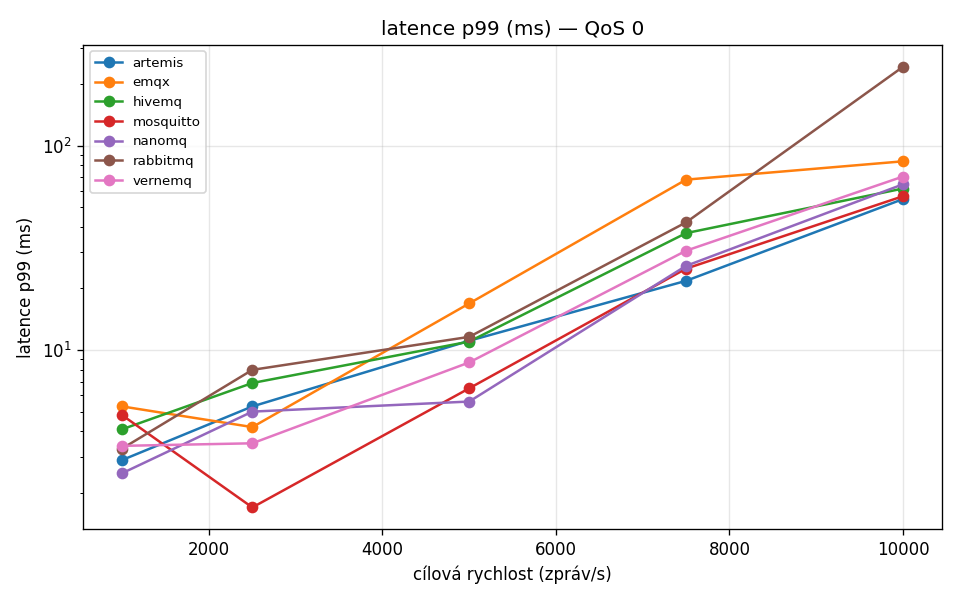
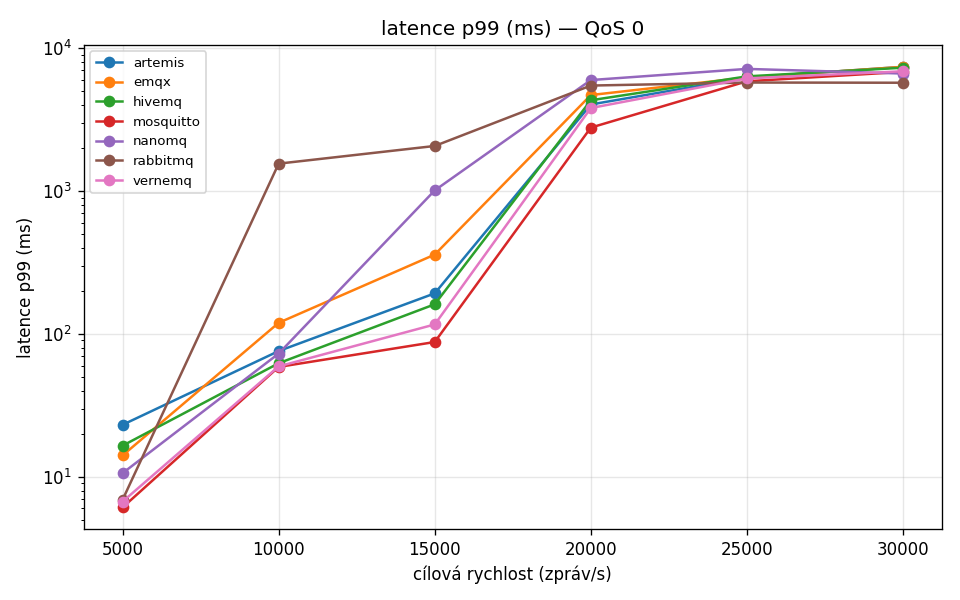
Broker benchmark: QoS 0 rampa do 30k — nalezen strop ~20k
QoS 0 změřena výš (5k-30k), aby throughput graf něco ukázal:
- všichni čistě do 15k/s, strop ~20k (z větší části klientský — jeden
  subscriber proces), nad 25k saturace a ztráty
- reálný rozdíl: RabbitMQ láme nejdřív (p99 1.5s už u 10k), Mosquitto
  drží nejdéle (25k s 5% ztrát)
- README: tabulka chování QoS0 rampy + graf throughput-qos0 (už ne čára)
- obnovené grafy v charts/

Oprava subscriberu (stop i během proudu) umožnila měřit i saturaci.

diff --git a/benchmarks/brokers/README.md b/benchmarks/brokers/README.md
@@ -171,6 +171,21 @@ RAM = working set kontejneru (memory.current − cache).
 | **RabbitMQ** | 5 000 | 0 | 11.6 | 84 | 148 |
 | **EMQX** | 5 000 | 0 | 16.9 | 132 | 254 |
 
+**QoS 0 — hledání stropu (rampa 5k → 30k):** protože při 5 000/s je propustnost
+nezajímavá (všichni stíhají), byla QoS 0 změřena i do 30 000/s:
+
+| Cílová rychlost | Chování |
+|---|---|
+| do **15 000/s** | všichni 0 ztrát, latence roste úměrně |
+| **20 000/s** | většinou ještě 0 ztrát, ale p99 vyletí na 3–6 s (roste backlog) |
+| **25 000/s** | první ztráty (Mosquitto 5 %, ostatní 12–36 %) |
+| **30 000/s** | saturace, ztráty 30–49 %, propustnost klesá na ~13–18k |
+
+Strop ~**20 000/s** je z větší části daný **klientem** (jeden subscriber proces),
+ne brokery — ale i tak se projevily rozdíly: **RabbitMQ láme nejdřív** (p99 už
+u 10 000/s skočí na ~1,5 s, ostatní pod 120 ms), **Mosquitto drží nejdéle**
+(ještě 25k s pouhými 5 % ztrát).
+
 ### Co z toho plyne
 
 - **Mosquitto = nejvyrovnanější:** nejnižší CPU (13–16 %) i RAM (~7–11 MB) a
@@ -213,16 +228,19 @@ NanoMQ/Mosquitto/Artemis sledují ideál až do 10 000/s; HiveMQ je placatý na 
 Mosquitto má zdaleka nejnižší CPU; EMQX nejvyšší (Erlang VM). RAM: lehké brokery
 jednotky MB vs. JVM/Erlang stovky MB.
 
-> **Pozn. k `throughput-qos0.png`:** je to jen jedna čára na diagonále, protože
-> při QoS 0 **každý broker trefil každou cílovou rychlost** až do 10 000/s (0 ztrát)
-> — žádný nebyl úzké hrdlo, všechny křivky splynou s ideálem (cíl = dosaženo).
-> To je samo o sobě výsledek: při QoS 0 limituje až klient, ne broker. Rozdíly
-> mezi brokery jsou u QoS 0 vidět v latenci/CPU/RAM, ne v propustnosti.
+**Propustnost QoS 0 (rampa do 30 000/s)** — kde se odlomí od ideálu:
+
+![Propustnost, QoS 0](charts/throughput-qos0.png)
+
+Všichni sledují ideál do ~20 000/s, pak saturace. Mosquitto (červená) vyjede
+nejvýš, RabbitMQ (hnědá) láme nejdřív (~15k). Strop je z větší části klientský
+(jeden subscriber), ale RabbitMQ se odlišil reálně.
 
 ### Výhrady ke konkrétním číslům
 
-- **Jeden host** (Python klient i brokery sdílí CPU) → strop ~10 000/s je
-  **klientský**, ne brokeru. Čísla jsou relativní (stejný klient pro všechny).
+- **Jeden host** (Python klient i brokery sdílí CPU) → strop propustnosti
+  (~20 000/s QoS 0) je z větší části **klientský** (jeden subscriber proces), ne
+  brokeru. Čísla jsou relativní (stejný klient pro všechny).
 - **CPU/RAM** se čte z cgroup v2 (`cpu.stat` usage_usec, `memory.current`);
   CPU je průměr přes celý krok (dřívější `docker stats` vzorkování dávalo u
   lehkých brokerů chybně 0 %).
